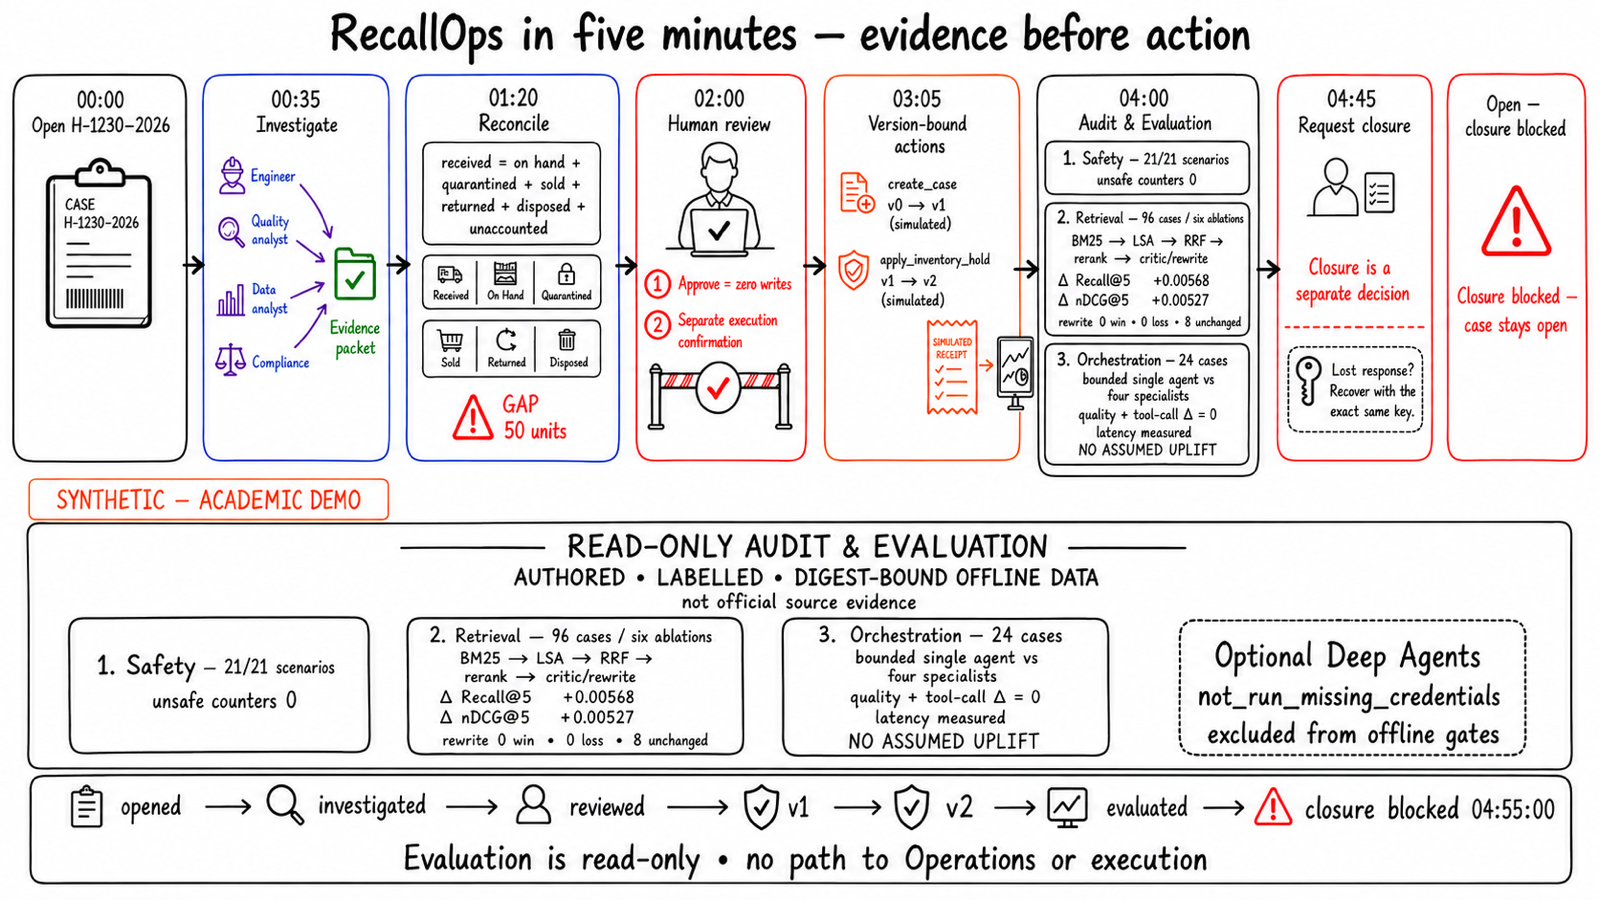
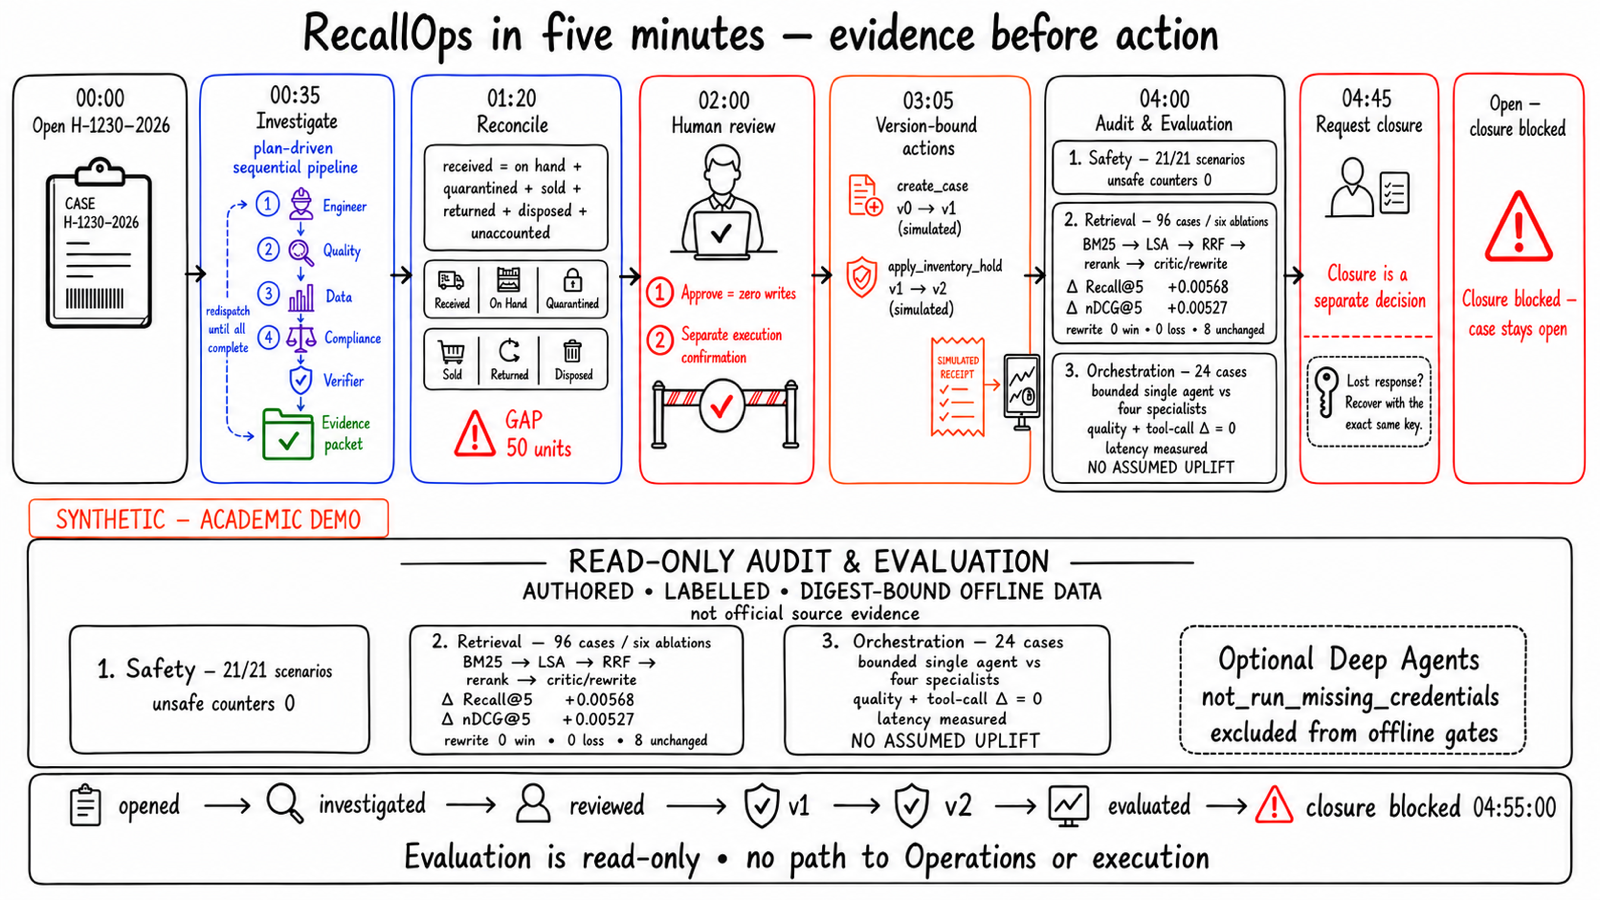
Align polished visuals with sequential dispatch

Changed region(s): [[0.0, 0.0, 1.0, 0.9956]]

diff --git a/docs/images/submission-visual-prompts.md b/docs/images/submission-visual-prompts.md
@@ -86,6 +86,18 @@ Demo correction prompt:
 
 > Simplify the dense lower half and enlarge all evaluation proof for comfortable reading at 800×450. Keep the top phases “00:00 Open H-1230-2026”, “00:35 Investigate”, “01:20 Reconcile”, “02:00 Human review”, “03:05 Version-bound actions”, “04:00 Audit & Evaluation”, “04:45 Request closure”, and “Open — closure blocked”. Preserve “SYNTHETIC — ACADEMIC DEMO”, “GAP 50 units”, “Approve = zero writes”, “Separate execution confirmation”, “create_case v0→v1”, “apply_inventory_hold v1→v2”, and “Lost response? Recover with the exact same key.” Replace the tiny legend/audit/notes area with a large “READ-ONLY AUDIT & EVALUATION” panel: “AUTHORED • LABELLED • DIGEST-BOUND OFFLINE DATA”, “not official source evidence”; “Safety — 21/21 scenarios” / “unsafe counters 0”; “Retrieval — 96 cases / six ablations”, “BM25 → LSA → RRF → rerank → critic/rewrite”, “Δ Recall@5 +0.00568”, “Δ nDCG@5 +0.00527”, “rewrite 0 win • 0 loss • 8 unchanged”; “Orchestration — 24 cases”, “bounded single agent vs four specialists”, “quality + tool-call Δ = 0”, “latency measured”, “NO ASSUMED UPLIFT”; and a separate large “Optional Deep Agents” / “not_run_missing_credentials” / “excluded from offline gates” status card. Add “opened → investigated → reviewed → v1 → v2 → evaluated → closure blocked 04:55:00” and “Evaluation is read-only • no path to Operations or execution”. Remove 04:55:02 and show no time later than 04:55:00.
 
+## Plan-driven sequential dispatcher refresh
+
+Tool: **Built-in `image_gen` edit**. Each committed PNG was first inspected at its original size. The selected outputs were copied into the project and normalized to opaque 1600×900 PNGs, then inspected again at both 1600×900 and 800×450.
+
+Exact architecture edit prompt:
+
+> Use case: precise-object-edit. Asset type: final RecallOps system-architecture submission infographic PNG. Input image: Image 1 is the approved 1600×900 edit target and the sole style/composition reference. Primary request: Make one targeted correction inside the top “CONTROL & REASONING” area so orchestration visibly matches the implemented plan-driven sequential LangGraph dispatcher. Replace the current generic LangGraph/default/specialist arrangement with a compact, readable control sequence labelled exactly: “Planner” → “plan.todos” → “durable cursor” → “one specialist at a time” → “redispatch until all four complete” → “Verifier”. Visually show a single active specialist slot visited sequentially by the four named specialist roles in this exact order: “Engineer” → “Quality” → “Data” → “Compliance”; use a small numbered queue or loop/cursor treatment, never four simultaneous arrows and never parallel convergence. The verifier must occur only after all four are complete. Keep the optional “Deep Agent specialists” block visibly isolated and optional; it must not imply authority, mutation, or default runtime execution. Critical invariants: preserve the entire title; the official openFDA and SYNTHETIC — ACADEMIC DEMO inputs; read-only MCP boundary; the sole connected mutation lane “Human review” → “Execution confirmation” → “Approved graph node” → “Recall Operations MCP” → “Simulated write” → “Durable receipt / version” → “Outcome: close or escalate”; “Approve = zero writes”; “one approved write per version”; the standalone “No A2A • Agents never write directly” warning; the complete read-only evaluation plane, all suite counts, all measured delta values, optional advisory status, digest-verified scorecard, and the rule that evaluation has no path to Operations. Change no metric, status, safety claim, arrow in the mutation path, or evaluation copy. Preserve the established hand-drawn engineering-whiteboard visual language, color roles, generous whitespace, solid opaque white background, 16:9 landscape framing, and safe margins. Keep all primary labels legible at 800×450. No watermark, no transparency, no new decorative content, no clipped text, no inaccurate fan-out.
+
+Exact five-minute demo edit prompt:
+
+> Use case: precise-object-edit. Asset type: final RecallOps five-minute demo submission infographic PNG. Input image: Image 1 is the approved 1600×900 edit target and the sole style/composition reference. Primary request: Make one targeted correction in the “00:35 Investigate” phase: replace the four specialist arrows converging simultaneously on the Evidence packet with a clearly numbered or looped sequential queue labelled exactly “plan-driven sequential pipeline”. Show this exact order with a durable cursor/redispatch visual: “1 Engineer” → “2 Quality” → “3 Data” → “4 Compliance” → “Verifier” → “Evidence packet”. The diagram must communicate exactly one specialist at a time and redispatch until all four complete; never imply parallel fan-out or simultaneous convergence. Keep the Investigate phase compact enough that every label remains readable and does not overlap adjacent phases. Critical invariants: preserve every other top timeline phase and exact timing — “00:00 Open H-1230-2026”, “00:35 Investigate”, “01:20 Reconcile”, “02:00 Human review”, “03:05 Version-bound actions”, “04:00 Audit & Evaluation”, “04:45 Request closure”, and the final “Open — closure blocked”; preserve the closure result at exactly “04:55:00”. Preserve “SYNTHETIC — ACADEMIC DEMO”, the seven-part reconciliation equation and “GAP 50 units”, “Approve = zero writes”, “Separate execution confirmation”, the create_case v0 → v1 and apply_inventory_hold v1 → v2 simulated action/receipt semantics, “Closure is a separate decision”, and exact-key recovery. Preserve the full read-only audit/evaluation plane and all exact values: Safety 21/21 scenarios, unsafe counters 0; Retrieval 96 cases / six ablations, BM25 → LSA → RRF → rerank → critic/rewrite, Δ Recall@5 +0.00568, Δ nDCG@5 +0.00527, rewrite 0 win • 0 loss • 8 unchanged; Orchestration 24 cases, quality + tool-call Δ = 0, latency measured, NO ASSUMED UPLIFT; Optional Deep Agents not_run_missing_credentials and excluded from offline gates; authored, labelled, digest-bound offline data, not official source evidence; evaluation read-only with no path to Operations or execution. Preserve the established hand-drawn engineering-whiteboard visual language, colors, icons, generous whitespace, solid opaque white background, 16:9 landscape framing, and safe margins. Keep all primary labels legible at 800×450. No watermark, no transparency, no new decorative content, no clipped text, no changed metric, no inaccurate fan-out.
+
 ## Truth and review record
 
 - The PNGs are narrative presentation assets, not executable architecture specifications.
